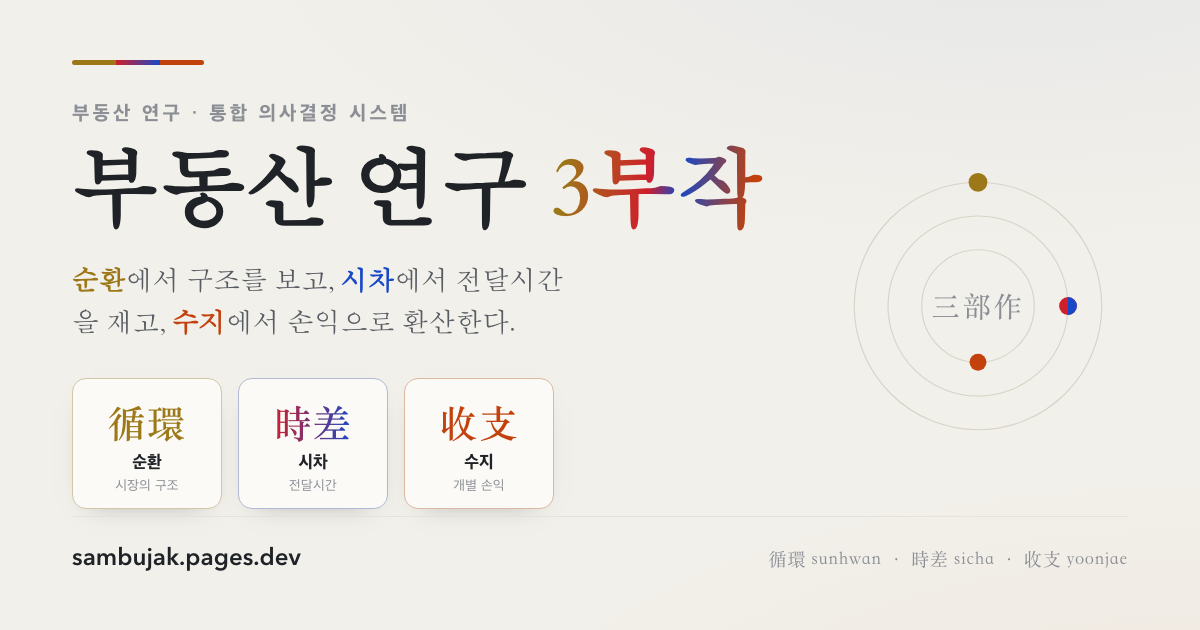
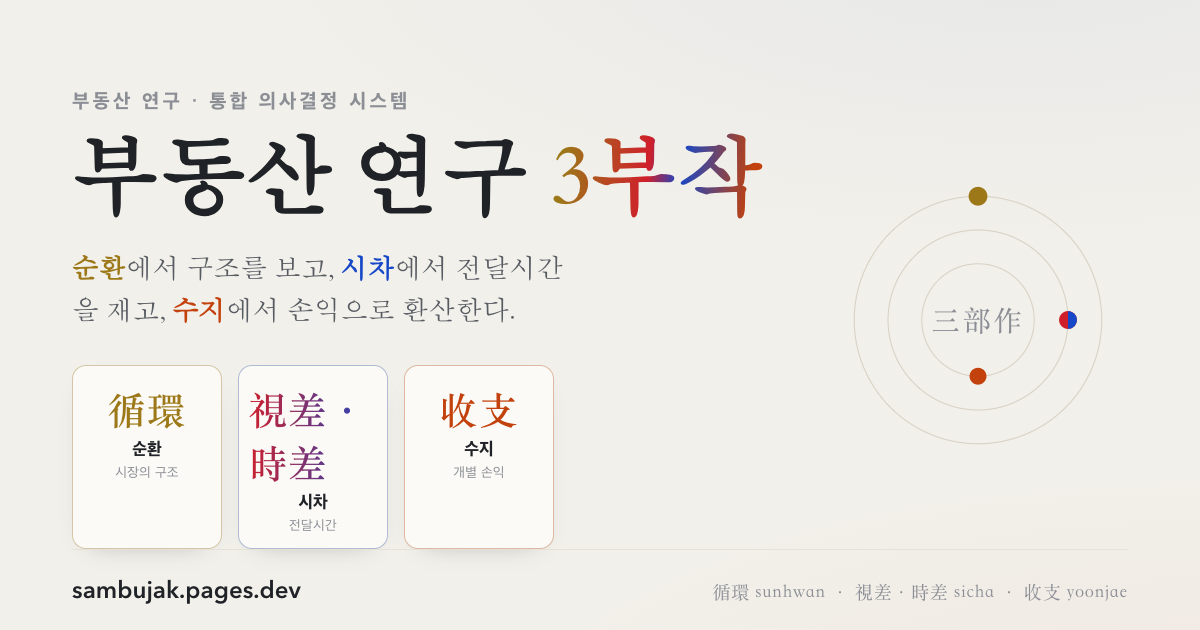
외부 심사 반영: 첫 문장 어법과 부산 사례 논리 정리, 브랜드를 視差·時差로 통일, 검색 공개 전환

diff --git a/index.html b/index.html
@@ -3,24 +3,24 @@
 <head>
 <meta charset="utf-8">
 <meta name="viewport" content="width=device-width, initial-scale=1, viewport-fit=cover">
-<meta name="robots" content="noindex, nofollow">
-<title>부동산 연구 3부작 — 循環 · 時差 · 收支</title>
-<meta name="description" content="세 개의 부동산 연구를 하나의 의사결정 시스템으로. 먼저 순환에서 시장의 구조를 확인하고, 시차에서 변화가 언제 나타나는지 살핀 뒤, 수지에서 사업성에 대입한다.">
+<meta name="robots" content="index, follow">
+<title>부동산 연구 3부작 — 循環 · 視差·時差 · 收支</title>
+<meta name="description" content="시장 구조를 살피고, 변화가 다른 지표에 나타나는 시점을 확인한 뒤, 그 조건을 사업성 계산에 반영하는 세 개의 부동산 데이터 연구를 한곳에 모았다.">
 <link rel="canonical" href="https://sambujak.pages.dev/">
 <meta property="og:type" content="website">
 <meta property="og:site_name" content="부동산 연구 3부작">
 <meta property="og:locale" content="ko_KR">
 <meta property="og:url" content="https://sambujak.pages.dev/">
-<meta property="og:title" content="부동산 연구 3부작 — 循環 · 時差 · 收支">
-<meta property="og:description" content="세 개의 부동산 연구를 하나의 의사결정 시스템으로. 먼저 순환에서 시장의 구조를 확인하고, 시차에서 변화가 언제 나타나는지 살핀 뒤, 수지에서 사업성에 대입한다.">
+<meta property="og:title" content="부동산 연구 3부작 — 循環 · 視差·時差 · 收支">
+<meta property="og:description" content="시장 구조를 살피고, 변화가 다른 지표에 나타나는 시점을 확인한 뒤, 그 조건을 사업성 계산에 반영하는 세 개의 부동산 데이터 연구를 한곳에 모았다.">
 <meta property="og:image" content="https://sambujak.pages.dev/og.png">
 <meta property="og:image:type" content="image/png">
 <meta property="og:image:width" content="1200">
 <meta property="og:image:height" content="630">
-<meta property="og:image:alt" content="부동산 연구 3부작 — 循環 · 時差 · 收支">
+<meta property="og:image:alt" content="부동산 연구 3부작 — 循環 · 視差·時差 · 收支">
 <meta name="twitter:card" content="summary_large_image">
-<meta name="twitter:title" content="부동산 연구 3부작 — 循環 · 時差 · 收支">
-<meta name="twitter:description" content="세 개의 부동산 연구를 하나의 의사결정 시스템으로. 먼저 순환에서 시장의 구조를 확인하고, 시차에서 변화가 언제 나타나는지 살핀 뒤, 수지에서 사업성에 대입한다.">
+<meta name="twitter:title" content="부동산 연구 3부작 — 循環 · 視差·時差 · 收支">
+<meta name="twitter:description" content="시장 구조를 살피고, 변화가 다른 지표에 나타나는 시점을 확인한 뒤, 그 조건을 사업성 계산에 반영하는 세 개의 부동산 데이터 연구를 한곳에 모았다.">
 <meta name="twitter:image" content="https://sambujak.pages.dev/og.png">
 <style>
   /* ============ 중립 종이 위, 세 색은 포인트로만 ============ */
@@ -286,9 +286,9 @@
   <section class="hero">
     <div class="wrap hero-grid">
       <div>
-        <div class="trichip"><span class="g">循環</span><i></i><span class="rb">時差</span><i></i><span class="o">收支</span></div>
+        <div class="trichip"><span class="g">循環</span><i></i><span class="rb">視差·時差</span><i></i><span class="o">收支</span></div>
         <h1 class="title">부동산 연구 3부작</h1>
-        <p class="lead">부동산을 판단할 때 시장 흐름만 봐도, 사업 수지만 봐도 충분하지 않았다. 그래서 시장의 구조, 변화가 전달되는 시간, 실제 사업의 손익을 각각 따로 분석했다. 세 연구를 이어 보면 시장의 변화가 한 사업의 숫자로 연결되는 과정을 한 흐름으로 볼 수 있다.</p>
+        <p class="lead">부동산 사업을 검토할 때 시장 흐름만 보거나 수지표만 계산해서는 충분하지 않았다. 그래서 시장의 구조, 변화가 다른 지표에 나타나는 시간, 개별 사업의 손익을 각각 분석했다. 세 연구를 순서대로 보면 시장의 변화가 사업성 가정으로 이어지는 과정을 확인할 수 있다.</p>
         <p class="method">먼저 <span class="g">순환</span>에서 시장의 구조를 확인하고, <span class="rb">시차</span>에서 변화가 언제 나타나는지 살핀다. 마지막으로 <span class="o">수지</span>에서 그 조건을 실제 사업성에 대입한다.</p>
       </div>
       <div>
@@ -321,9 +321,9 @@
 
       <article class="card rb">
         <div class="seal hanja parallax" aria-label="視差·時差"><span class="sp">視差</span><span class="tm">時差</span></div>
-        <p class="kicker">신호의 전달시간</p>
-        <h3 class="q">그 변화는 언제 전달되는가</h3>
-        <p class="desc">같은 자산의 실거래가·전세가·공시가격이 왜 다른지 비교했다. 금리·거래·가격·공급 사이에서는 어떤 지표가 먼저 움직이고, 그 영향이 몇 달 뒤 나타나는지 살펴봤다.</p>
+        <p class="kicker">가격의 차이와 신호의 시간차</p>
+        <h3 class="q">가격은 왜 다르고, 변화는 언제 나타나는가</h3>
+        <p class="desc">같은 자산의 실거래가·전세가·공시가격이 얼마나 다르게 나타나는지 비교했다. 금리·거래·가격·공급 중 어떤 지표가 먼저 움직이고, 다른 지표가 몇 달 뒤 반응하는지도 살펴봤다.</p>
         <p class="stat"><b>세 가격</b> · 교차상관 시차 스캔 · 사건연구 · 9개 장</p>
         <div class="go"><a class="live" href="https://sicha.pages.dev" target="_blank" rel="noopener">라이브 <span class="u">sicha.pages.dev</span> <span class="arr">↗</span></a></div>
       </article>
@@ -344,22 +344,22 @@
   <section class="band">
     <div class="wrap">
       <p class="eyebrow">사용자 경로</p>
-      <h2 class="title" style="font-size:clamp(26px,3.4vw,36px); margin:0 0 6px">하나의 질문이 세 연구를 지난다</h2>
-      <p class="lead" style="margin-top:8px">시장 전체에서 시작해 한 사업의 숫자까지 좁혀 가는 순서다. 구조를 보고, 변화가 나타나는 시점을 확인한 뒤, 마지막에 사업성을 계산한다.</p>
+      <h2 class="title" style="font-size:clamp(26px,3.4vw,36px); margin:0 0 6px">시장 흐름에서 사업성까지</h2>
+      <p class="lead" style="margin-top:8px">시장 전체에서 시작해 개별 사업의 숫자까지 좁혀 가는 순서다. 시장 구조를 확인하고, 변화가 나타나는 시점을 살핀 뒤, 그 조건을 사업성 계산에 반영한다.</p>
       <div class="path">
         <div class="step gold">
           <div class="sh hanja">循環</div>
-          <p class="verb">구조를 본다</p>
-          <p class="qq">시장은 어떤 구조로 움직이는가</p>
+          <p class="verb">시장 구조를 확인한다</p>
+          <p class="qq">市場은 어떤 구조로 움직이는가</p>
         </div>
         <div class="flow" aria-hidden="true">
           <svg class="right" width="34" height="18" viewBox="0 0 34 18"><path d="M0 9h28M24 3l6 6-6 6" fill="none" stroke="currentColor" stroke-width="1.6"/></svg>
           <svg class="down" width="18" height="30" viewBox="0 0 18 30"><path d="M9 0v24M3 20l6 6 6-6" fill="none" stroke="currentColor" stroke-width="1.6"/></svg>
         </div>
         <div class="step rb">
-          <div class="sh hanja">時差</div>
-          <p class="verb">전달시간을 잰다</p>
-          <p class="qq">그 변화는 언제 도착하는가</p>
+          <div class="sh hanja">視差·時差</div>
+          <p class="verb">가격 차이와 변화 시점을 확인한다</p>
+          <p class="qq">가격은 왜 다르고, 다른 지표에는 언제 나타나는가</p>
         </div>
         <div class="flow" aria-hidden="true">
           <svg class="right" width="34" height="18" viewBox="0 0 34 18"><path d="M0 9h28M24 3l6 6-6 6" fill="none" stroke="currentColor" stroke-width="1.6"/></svg>
@@ -367,8 +367,8 @@
         </div>
         <div class="step orange">
           <div class="sh hanja">收支</div>
-          <p class="verb">손익으로 환산한다</p>
-          <p class="qq">그래서 얼마가 남는가</p>
+          <p class="verb">사업성을 계산한다</p>
+          <p class="qq">이 조건에서 사업이익은 얼마나 남는가</p>
         </div>
       </div>
     </div>
@@ -377,15 +377,15 @@
   <!-- ④ 대표 사례 -->
   <section class="wrap">
     <p class="eyebrow">대표 사례</p>
-    <h2 class="title" style="font-size:clamp(26px,3.4vw,36px); margin:0 0 6px">부산 — 하나의 신호를 세 연구로 따라간다</h2>
-    <p class="lead" style="margin-top:8px; margin-bottom:26px">부산 사례를 따라가며 세 연구가 어떻게 이어지는지 보여준다. 각 단계는 해당 장으로 연결되며, 시장 신호를 사업성 가정에 반영하는 과정을 순서대로 확인할 수 있다.</p>
+    <h2 class="title" style="font-size:clamp(26px,3.4vw,36px); margin:0 0 6px">부산 시장을 세 연구의 관점으로 살펴본다</h2>
+    <p class="lead" style="margin-top:8px; margin-bottom:26px">부산 사례를 통해 세 연구를 함께 활용하는 방법을 보여준다. 먼저 분양 흐름을 확인하고, 관련 공급지표의 전달 시차를 참고한 뒤, 해당 시장 조건을 사업성 가정에 반영한다.</p>
     <div class="caseflow">
 
       <a class="cstep gold" href="https://sunhwan.pages.dev/#/ch2" target="_blank" rel="noopener">
         <span class="n">1</span>
         <span class="body">
-          <p class="h">부산 초기분양률 회복을 관측한다</p>
-          <p class="s">HUG 초기분양률이 56.4% → 71.0%로 오른 신호를 분양 장에서 읽는다.</p>
+          <p class="h">부산 초기분양률의 상승 흐름을 확인한다</p>
+          <p class="s">HUG 초기분양률이 56.4%에서 71.0%로 높아진 흐름을 분양 장에서 확인한다.</p>
         </span>
         <span class="dest"><span class="lab"><span class="site hanja">循環</span><span class="ch">Ⅱ 분양</span></span><span class="arr">↗</span></span>
       </a>
@@ -402,14 +402,14 @@
       <a class="cstep orange" href="https://yoonjae.pages.dev/#/ch3" target="_blank" rel="noopener">
         <span class="n">3</span>
         <span class="body">
-          <p class="h">계산기에서 부산 조건으로 시나리오를 짠다</p>
-          <p class="s">그 국면을 이익·NPV·IRR로 환산한다 — 계산기 기본값은 서울, 지역을 부산으로 바꾼 뒤 쓴다.</p>
+          <p class="h">부산 조건으로 사업성 시나리오를 계산한다</p>
+          <p class="s">계산기의 지역을 부산으로 변경하고, 앞에서 확인한 시장 조건을 가정값에 반영해 사업이익·NPV·IRR을 비교한다.</p>
         </span>
         <span class="dest"><span class="lab"><span class="site hanja">收支</span><span class="ch">Ⅲ 계산기</span></span><span class="arr">↗</span></span>
       </a>
 
     </div>
-    <p class="caseline">모든 수치는 예측적 선후관계이며 인과 주장이 아니다 · 상관 ≠ 인과.</p>
+    <p class="caseline">이 사례는 서로 다른 분석을 연결해 보는 활용 예시다. 지표 사이의 선후관계는 인과관계를 뜻하지 않는다.</p>
   </section>
 
   <!-- ⑤ 푸터 -->
@@ -421,7 +421,7 @@
           <div class="repos">
             <a href="https://github.com/yooooonjae/sambujak" target="_blank" rel="noopener"><span class="rk hub hanja">三部作</span><span class="rp">github.com/yooooonjae/sambujak</span></a>
             <a href="https://github.com/yooooonjae/sunhwan" target="_blank" rel="noopener"><span class="rk g hanja">循環</span><span class="rp">github.com/yooooonjae/sunhwan</span></a>
-            <a href="https://github.com/yooooonjae/sicha" target="_blank" rel="noopener"><span class="rk rb hanja">時差</span><span class="rp">github.com/yooooonjae/sicha</span></a>
+            <a href="https://github.com/yooooonjae/sicha" target="_blank" rel="noopener"><span class="rk rb hanja">視差·時差</span><span class="rp">github.com/yooooonjae/sicha</span></a>
             <a href="https://github.com/yooooonjae/suji" target="_blank" rel="noopener"><span class="rk o hanja">收支</span><span class="rp">github.com/yooooonjae/suji</span></a>
           </div>
         </div>
@@ -432,9 +432,9 @@
       </div>
       <div class="fnote">
         <span class="tri"><b class="hanja">循環</b> 시장과 자본의 구조</span><span class="dot"></span>
-        <span class="tri"><b class="hanja">時差</b> 신호의 전달시간</span><span class="dot"></span>
+        <span class="tri"><b class="hanja">視差·時差</b> 가격의 차이와 신호의 시간차</span><span class="dot"></span>
         <span class="tri"><b class="hanja">收支</b> 개별 사업의 손익</span><span class="dot"></span>
-        <span>noindex · 포트폴리오 열람 목적</span><span class="dot"></span>
+        <span>포트폴리오 공개 열람</span><span class="dot"></span>
         <span>© 2026 Yooooonjae</span><span class="dot"></span>
         <span class="build"><!--BUILD--><span class="num">0a3e504</span> · Built 2026-07-23<!--/BUILD--></span>
       </div>

diff --git a/web/index.html b/web/index.html
@@ -3,24 +3,24 @@
 <head>
 <meta charset="utf-8">
 <meta name="viewport" content="width=device-width, initial-scale=1, viewport-fit=cover">
-<meta name="robots" content="noindex, nofollow">
-<title>부동산 연구 3부작 — 循環 · 時差 · 收支</title>
-<meta name="description" content="세 개의 부동산 연구를 하나의 의사결정 시스템으로. 먼저 순환에서 시장의 구조를 확인하고, 시차에서 변화가 언제 나타나는지 살핀 뒤, 수지에서 사업성에 대입한다.">
+<meta name="robots" content="index, follow">
+<title>부동산 연구 3부작 — 循環 · 視差·時差 · 收支</title>
+<meta name="description" content="시장 구조를 살피고, 변화가 다른 지표에 나타나는 시점을 확인한 뒤, 그 조건을 사업성 계산에 반영하는 세 개의 부동산 데이터 연구를 한곳에 모았다.">
 <link rel="canonical" href="https://sambujak.pages.dev/">
 <meta property="og:type" content="website">
 <meta property="og:site_name" content="부동산 연구 3부작">
 <meta property="og:locale" content="ko_KR">
 <meta property="og:url" content="https://sambujak.pages.dev/">
-<meta property="og:title" content="부동산 연구 3부작 — 循環 · 時差 · 收支">
-<meta property="og:description" content="세 개의 부동산 연구를 하나의 의사결정 시스템으로. 먼저 순환에서 시장의 구조를 확인하고, 시차에서 변화가 언제 나타나는지 살핀 뒤, 수지에서 사업성에 대입한다.">
+<meta property="og:title" content="부동산 연구 3부작 — 循環 · 視差·時差 · 收支">
+<meta property="og:description" content="시장 구조를 살피고, 변화가 다른 지표에 나타나는 시점을 확인한 뒤, 그 조건을 사업성 계산에 반영하는 세 개의 부동산 데이터 연구를 한곳에 모았다.">
 <meta property="og:image" content="https://sambujak.pages.dev/og.png">
 <meta property="og:image:type" content="image/png">
 <meta property="og:image:width" content="1200">
 <meta property="og:image:height" content="630">
-<meta property="og:image:alt" content="부동산 연구 3부작 — 循環 · 時差 · 收支">
+<meta property="og:image:alt" content="부동산 연구 3부작 — 循環 · 視差·時差 · 收支">
 <meta name="twitter:card" content="summary_large_image">
-<meta name="twitter:title" content="부동산 연구 3부작 — 循環 · 時差 · 收支">
-<meta name="twitter:description" content="세 개의 부동산 연구를 하나의 의사결정 시스템으로. 먼저 순환에서 시장의 구조를 확인하고, 시차에서 변화가 언제 나타나는지 살핀 뒤, 수지에서 사업성에 대입한다.">
+<meta name="twitter:title" content="부동산 연구 3부작 — 循環 · 視差·時差 · 收支">
+<meta name="twitter:description" content="시장 구조를 살피고, 변화가 다른 지표에 나타나는 시점을 확인한 뒤, 그 조건을 사업성 계산에 반영하는 세 개의 부동산 데이터 연구를 한곳에 모았다.">
 <meta name="twitter:image" content="https://sambujak.pages.dev/og.png">
 <style>
   /* ============ 중립 종이 위, 세 색은 포인트로만 ============ */
@@ -286,9 +286,9 @@
   <section class="hero">
     <div class="wrap hero-grid">
       <div>
-        <div class="trichip"><span class="g">循環</span><i></i><span class="rb">時差</span><i></i><span class="o">收支</span></div>
+        <div class="trichip"><span class="g">循環</span><i></i><span class="rb">視差·時差</span><i></i><span class="o">收支</span></div>
         <h1 class="title">부동산 연구 3부작</h1>
-        <p class="lead">부동산을 판단할 때 시장 흐름만 봐도, 사업 수지만 봐도 충분하지 않았다. 그래서 시장의 구조, 변화가 전달되는 시간, 실제 사업의 손익을 각각 따로 분석했다. 세 연구를 이어 보면 시장의 변화가 한 사업의 숫자로 연결되는 과정을 한 흐름으로 볼 수 있다.</p>
+        <p class="lead">부동산 사업을 검토할 때 시장 흐름만 보거나 수지표만 계산해서는 충분하지 않았다. 그래서 시장의 구조, 변화가 다른 지표에 나타나는 시간, 개별 사업의 손익을 각각 분석했다. 세 연구를 순서대로 보면 시장의 변화가 사업성 가정으로 이어지는 과정을 확인할 수 있다.</p>
         <p class="method">먼저 <span class="g">순환</span>에서 시장의 구조를 확인하고, <span class="rb">시차</span>에서 변화가 언제 나타나는지 살핀다. 마지막으로 <span class="o">수지</span>에서 그 조건을 실제 사업성에 대입한다.</p>
       </div>
       <div>
@@ -321,9 +321,9 @@
 
       <article class="card rb">
         <div class="seal hanja parallax" aria-label="視差·時差"><span class="sp">視差</span><span class="tm">時差</span></div>
-        <p class="kicker">신호의 전달시간</p>
-        <h3 class="q">그 변화는 언제 전달되는가</h3>
-        <p class="desc">같은 자산의 실거래가·전세가·공시가격이 왜 다른지 비교했다. 금리·거래·가격·공급 사이에서는 어떤 지표가 먼저 움직이고, 그 영향이 몇 달 뒤 나타나는지 살펴봤다.</p>
+        <p class="kicker">가격의 차이와 신호의 시간차</p>
+        <h3 class="q">가격은 왜 다르고, 변화는 언제 나타나는가</h3>
+        <p class="desc">같은 자산의 실거래가·전세가·공시가격이 얼마나 다르게 나타나는지 비교했다. 금리·거래·가격·공급 중 어떤 지표가 먼저 움직이고, 다른 지표가 몇 달 뒤 반응하는지도 살펴봤다.</p>
         <p class="stat"><b>세 가격</b> · 교차상관 시차 스캔 · 사건연구 · 9개 장</p>
         <div class="go"><a class="live" href="https://sicha.pages.dev" target="_blank" rel="noopener">라이브 <span class="u">sicha.pages.dev</span> <span class="arr">↗</span></a></div>
       </article>
@@ -344,22 +344,22 @@
   <section class="band">
     <div class="wrap">
       <p class="eyebrow">사용자 경로</p>
-      <h2 class="title" style="font-size:clamp(26px,3.4vw,36px); margin:0 0 6px">하나의 질문이 세 연구를 지난다</h2>
-      <p class="lead" style="margin-top:8px">시장 전체에서 시작해 한 사업의 숫자까지 좁혀 가는 순서다. 구조를 보고, 변화가 나타나는 시점을 확인한 뒤, 마지막에 사업성을 계산한다.</p>
+      <h2 class="title" style="font-size:clamp(26px,3.4vw,36px); margin:0 0 6px">시장 흐름에서 사업성까지</h2>
+      <p class="lead" style="margin-top:8px">시장 전체에서 시작해 개별 사업의 숫자까지 좁혀 가는 순서다. 시장 구조를 확인하고, 변화가 나타나는 시점을 살핀 뒤, 그 조건을 사업성 계산에 반영한다.</p>
       <div class="path">
         <div class="step gold">
           <div class="sh hanja">循環</div>
-          <p class="verb">구조를 본다</p>
-          <p class="qq">시장은 어떤 구조로 움직이는가</p>
+          <p class="verb">시장 구조를 확인한다</p>
+          <p class="qq">市場은 어떤 구조로 움직이는가</p>
         </div>
         <div class="flow" aria-hidden="true">
           <svg class="right" width="34" height="18" viewBox="0 0 34 18"><path d="M0 9h28M24 3l6 6-6 6" fill="none" stroke="currentColor" stroke-width="1.6"/></svg>
           <svg class="down" width="18" height="30" viewBox="0 0 18 30"><path d="M9 0v24M3 20l6 6 6-6" fill="none" stroke="currentColor" stroke-width="1.6"/></svg>
         </div>
         <div class="step rb">
-          <div class="sh hanja">時差</div>
-          <p class="verb">전달시간을 잰다</p>
-          <p class="qq">그 변화는 언제 도착하는가</p>
+          <div class="sh hanja">視差·時差</div>
+          <p class="verb">가격 차이와 변화 시점을 확인한다</p>
+          <p class="qq">가격은 왜 다르고, 다른 지표에는 언제 나타나는가</p>
         </div>
         <div class="flow" aria-hidden="true">
           <svg class="right" width="34" height="18" viewBox="0 0 34 18"><path d="M0 9h28M24 3l6 6-6 6" fill="none" stroke="currentColor" stroke-width="1.6"/></svg>
@@ -367,8 +367,8 @@
         </div>
         <div class="step orange">
           <div class="sh hanja">收支</div>
-          <p class="verb">손익으로 환산한다</p>
-          <p class="qq">그래서 얼마가 남는가</p>
+          <p class="verb">사업성을 계산한다</p>
+          <p class="qq">이 조건에서 사업이익은 얼마나 남는가</p>
         </div>
       </div>
     </div>
@@ -377,15 +377,15 @@
   <!-- ④ 대표 사례 -->
   <section class="wrap">
     <p class="eyebrow">대표 사례</p>
-    <h2 class="title" style="font-size:clamp(26px,3.4vw,36px); margin:0 0 6px">부산 — 하나의 신호를 세 연구로 따라간다</h2>
-    <p class="lead" style="margin-top:8px; margin-bottom:26px">부산 사례를 따라가며 세 연구가 어떻게 이어지는지 보여준다. 각 단계는 해당 장으로 연결되며, 시장 신호를 사업성 가정에 반영하는 과정을 순서대로 확인할 수 있다.</p>
+    <h2 class="title" style="font-size:clamp(26px,3.4vw,36px); margin:0 0 6px">부산 시장을 세 연구의 관점으로 살펴본다</h2>
+    <p class="lead" style="margin-top:8px; margin-bottom:26px">부산 사례를 통해 세 연구를 함께 활용하는 방법을 보여준다. 먼저 분양 흐름을 확인하고, 관련 공급지표의 전달 시차를 참고한 뒤, 해당 시장 조건을 사업성 가정에 반영한다.</p>
     <div class="caseflow">
 
       <a class="cstep gold" href="https://sunhwan.pages.dev/#/ch2" target="_blank" rel="noopener">
         <span class="n">1</span>
         <span class="body">
-          <p class="h">부산 초기분양률 회복을 관측한다</p>
-          <p class="s">HUG 초기분양률이 56.4% → 71.0%로 오른 신호를 분양 장에서 읽는다.</p>
+          <p class="h">부산 초기분양률의 상승 흐름을 확인한다</p>
+          <p class="s">HUG 초기분양률이 56.4%에서 71.0%로 높아진 흐름을 분양 장에서 확인한다.</p>
         </span>
         <span class="dest"><span class="lab"><span class="site hanja">循環</span><span class="ch">Ⅱ 분양</span></span><span class="arr">↗</span></span>
       </a>
@@ -402,14 +402,14 @@
       <a class="cstep orange" href="https://yoonjae.pages.dev/#/ch3" target="_blank" rel="noopener">
         <span class="n">3</span>
         <span class="body">
-          <p class="h">계산기에서 부산 조건으로 시나리오를 짠다</p>
-          <p class="s">그 국면을 이익·NPV·IRR로 환산한다 — 계산기 기본값은 서울, 지역을 부산으로 바꾼 뒤 쓴다.</p>
+          <p class="h">부산 조건으로 사업성 시나리오를 계산한다</p>
+          <p class="s">계산기의 지역을 부산으로 변경하고, 앞에서 확인한 시장 조건을 가정값에 반영해 사업이익·NPV·IRR을 비교한다.</p>
         </span>
         <span class="dest"><span class="lab"><span class="site hanja">收支</span><span class="ch">Ⅲ 계산기</span></span><span class="arr">↗</span></span>
       </a>
 
     </div>
-    <p class="caseline">모든 수치는 예측적 선후관계이며 인과 주장이 아니다 · 상관 ≠ 인과.</p>
+    <p class="caseline">이 사례는 서로 다른 분석을 연결해 보는 활용 예시다. 지표 사이의 선후관계는 인과관계를 뜻하지 않는다.</p>
   </section>
 
   <!-- ⑤ 푸터 -->
@@ -421,7 +421,7 @@
           <div class="repos">
             <a href="https://github.com/yooooonjae/sambujak" target="_blank" rel="noopener"><span class="rk hub hanja">三部作</span><span class="rp">github.com/yooooonjae/sambujak</span></a>
             <a href="https://github.com/yooooonjae/sunhwan" target="_blank" rel="noopener"><span class="rk g hanja">循環</span><span class="rp">github.com/yooooonjae/sunhwan</span></a>
-            <a href="https://github.com/yooooonjae/sicha" target="_blank" rel="noopener"><span class="rk rb hanja">時差</span><span class="rp">github.com/yooooonjae/sicha</span></a>
+            <a href="https://github.com/yooooonjae/sicha" target="_blank" rel="noopener"><span class="rk rb hanja">視差·時差</span><span class="rp">github.com/yooooonjae/sicha</span></a>
             <a href="https://github.com/yooooonjae/suji" target="_blank" rel="noopener"><span class="rk o hanja">收支</span><span class="rp">github.com/yooooonjae/suji</span></a>
           </div>
         </div>
@@ -432,9 +432,9 @@
       </div>
       <div class="fnote">
         <span class="tri"><b class="hanja">循環</b> 시장과 자본의 구조</span><span class="dot"></span>
-        <span class="tri"><b class="hanja">時差</b> 신호의 전달시간</span><span class="dot"></span>
+        <span class="tri"><b class="hanja">視差·時差</b> 가격의 차이와 신호의 시간차</span><span class="dot"></span>
         <span class="tri"><b class="hanja">收支</b> 개별 사업의 손익</span><span class="dot"></span>
-        <span>noindex · 포트폴리오 열람 목적</span><span class="dot"></span>
+        <span>포트폴리오 공개 열람</span><span class="dot"></span>
         <span>© 2026 Yooooonjae</span><span class="dot"></span>
         <span class="build"><!--BUILD--><span class="num">0a3e504</span> · Built 2026-07-23<!--/BUILD--></span>
       </div>

diff --git a/og.html b/og.html
@@ -69,7 +69,7 @@
         <p class="method"><b class="g">순환</b>에서 구조를 보고, <b class="rb">시차</b>에서 전달시간을 재고, <b class="o">수지</b>에서 손익으로 환산한다.</p>
         <div class="seals">
           <div class="seal g"><span class="hj">循環</span><span class="lb">순환</span><span class="ro">시장의 구조</span></div>
-          <div class="seal rb"><span class="hj">時差</span><span class="lb">시차</span><span class="ro">전달시간</span></div>
+          <div class="seal rb"><span class="hj">視差·時差</span><span class="lb">시차</span><span class="ro">전달시간</span></div>
           <div class="seal o"><span class="hj">收支</span><span class="lb">수지</span><span class="ro">개별 손익</span></div>
         </div>
       </div>
@@ -87,7 +87,7 @@
     </div>
     <div class="foot">
       <span class="dom">sambujak.pages.dev</span>
-      <span class="sub">循環 sunhwan · 時差 sicha · 收支 yoonjae</span>
+      <span class="sub">循環 sunhwan · 視差·時差 sicha · 收支 yoonjae</span>
     </div>
   </div>
 </body>